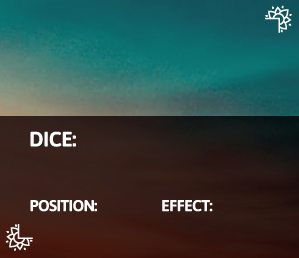
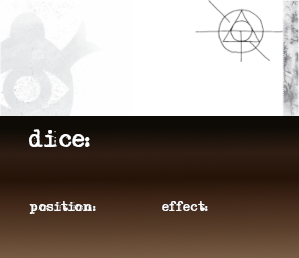
More template stuff

diff --git a/Tribes in the Dark/tribes.css b/Tribes in the Dark/tribes.css
@@ -2780,16 +2780,16 @@ button[type=roll].sheet-broadcast-button {
   width: calc(100% - 52px);
 }
 .sheet-rolltemplate-bitd .sheet-resist .sheet-header {
-  color: white;
+  color: #0e0b06;
 }
 .sheet-rolltemplate-bitd .sheet-vice .sheet-header {
-  color: white;
+  color: #0e0b06;
 }
 .sheet-rolltemplate-bitd .sheet-fortune .sheet-header {
   color: #303032;
 }
 .sheet-rolltemplate-bitd .sheet-action .sheet-header {
-  color: white;
+  color: #0e0b06;
 }
 .sheet-rolltemplate-bitd > .sheet-action .sheet-header,
 .sheet-rolltemplate-bitd > .sheet-fortune .sheet-header {
@@ -2815,7 +2815,7 @@ button[type=roll].sheet-broadcast-button {
 }
 .sheet-rolltemplate-bitd .sheet-title {
   grid-column: span 2;
-  color: white;
+  color: #0e0b06;
   position: relative;
   text-transform: uppercase;
   font-weight: bold;
@@ -2846,7 +2846,7 @@ button[type=roll].sheet-broadcast-button {
 }
 .sheet-rolltemplate-bitd .sheet-position,
 .sheet-rolltemplate-bitd .sheet-effect {
-  color: white;
+  color: #0e0b06;
   text-transform: uppercase;
   font-size: 12px;
   letter-spacing: 1px;
@@ -2856,7 +2856,7 @@ button[type=roll].sheet-broadcast-button {
   height: 27px;
   font-size: 19px;
   line-height: 20px;
-  color: white;
+  color:#0e0b06;
 }
 .sheet-rolltemplate-bitd .sheet-action .sheet-dice {
   margin: 47px 0 37px;
@@ -2871,7 +2871,7 @@ button[type=roll].sheet-broadcast-button {
 }
 .sheet-rolltemplate-bitd .sheet-action .sheet-zerodice1 {
   text-shadow: 0px 0px 6px #ff9e00;
-  color: white;
+  color: #0e0b06;
 }
 .sheet-rolltemplate-bitd .sheet-fortune .sheet-zerodice1 {
   text-shadow: 0px 0px 6px #88dbd7;
@@ -2880,7 +2880,7 @@ button[type=roll].sheet-broadcast-button {
 .sheet-rolltemplate-bitd .sheet-vice .sheet-zerodice1,
 .sheet-rolltemplate-bitd .sheet-resist .sheet-zerodice1 {
   text-shadow: 0px 0px 6px #09c7d0;
-  color: white;
+  color: #0e0b06;
 }
 .sheet-rolltemplate-bitd .sheet-zerodice2 {
   line-height: 1;
@@ -2895,7 +2895,7 @@ button[type=roll].sheet-broadcast-button {
 }
 .sheet-rolltemplate-bitd .sheet-action .sheet-zerodice2 {
   text-shadow: 0px 0px 6px #ff9e00;
-  color: #ffd8ca;
+  color: #0e0b06;
 }
 .sheet-rolltemplate-bitd .sheet-fortune .sheet-zerodice2 {
   width: 60%;
